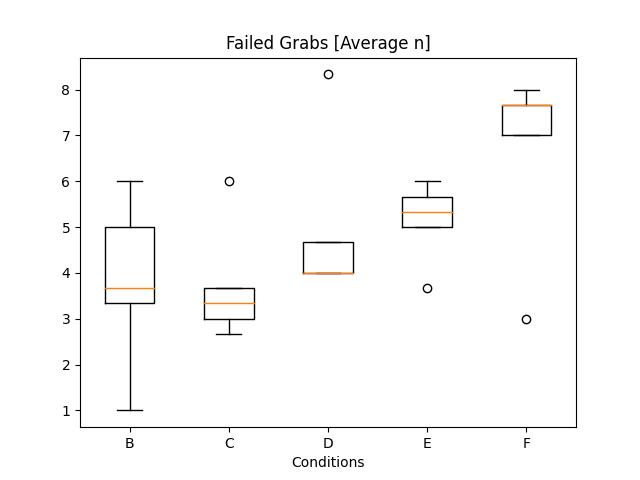
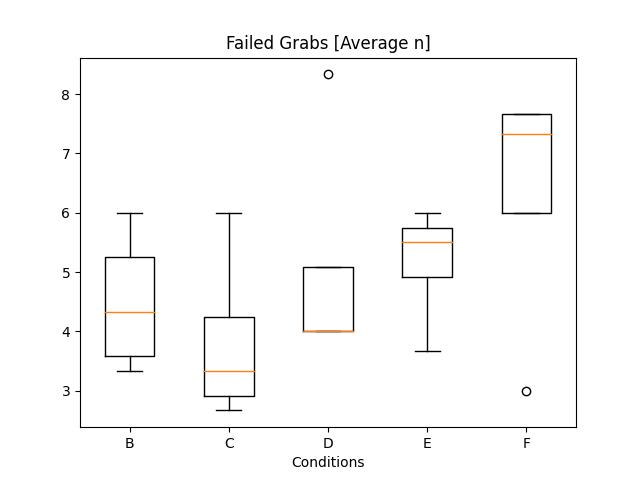
changed to exclude pilot participant 0

diff --git a/read.py b/read.py
@@ -29,7 +29,7 @@ hmd_header      = [ "f", "dt", "t", "posX", "posY", "posZ", "rotX", "rotY", "rot
 gripper_header  = [ "f", "dt", "t", "posX", "posY", "posZ", "rotX", "rotY", "rotZ", "rotW", "grip_pos", "grip_vel", "grip_eff" ]
 robot_header    = [ "f", "dt", "t", "t1", "t2", "t3", "t4", "t5", "t6", "t7", "fx", "fy", "fz" ]
 
-Participants    = [0, 1, 2, 3, 4]                            # number of participants
+Participants    = [1, 2, 3, 4]                            # number of participants
 Conditions      = ['A', 'B', 'C', 'D', 'E', 'F']
 Trials          = [1, 2, 3]
 Files           = ['Experiment', 'Gaze', 'Hand', 'HMD', 'Gripper', 'Robot']
